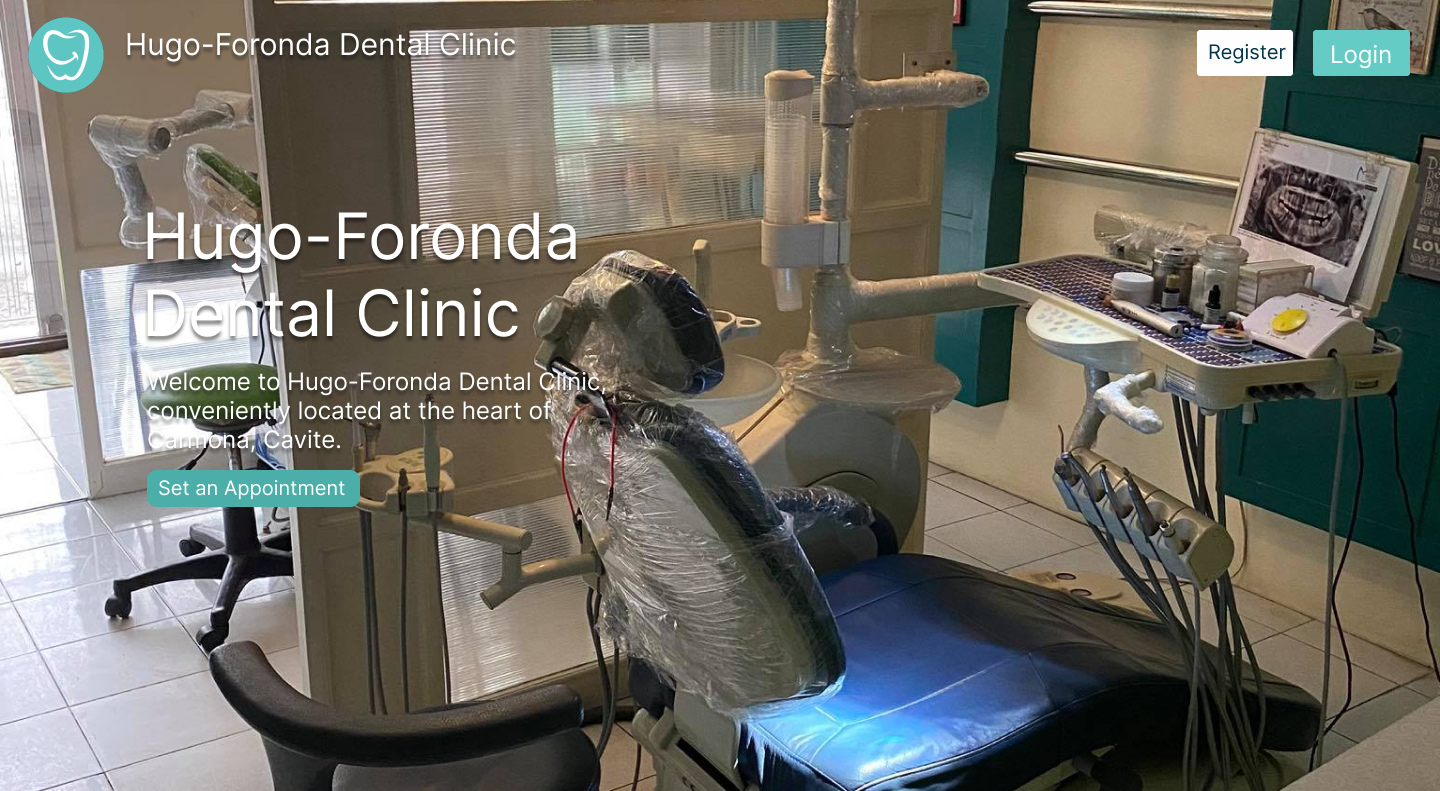
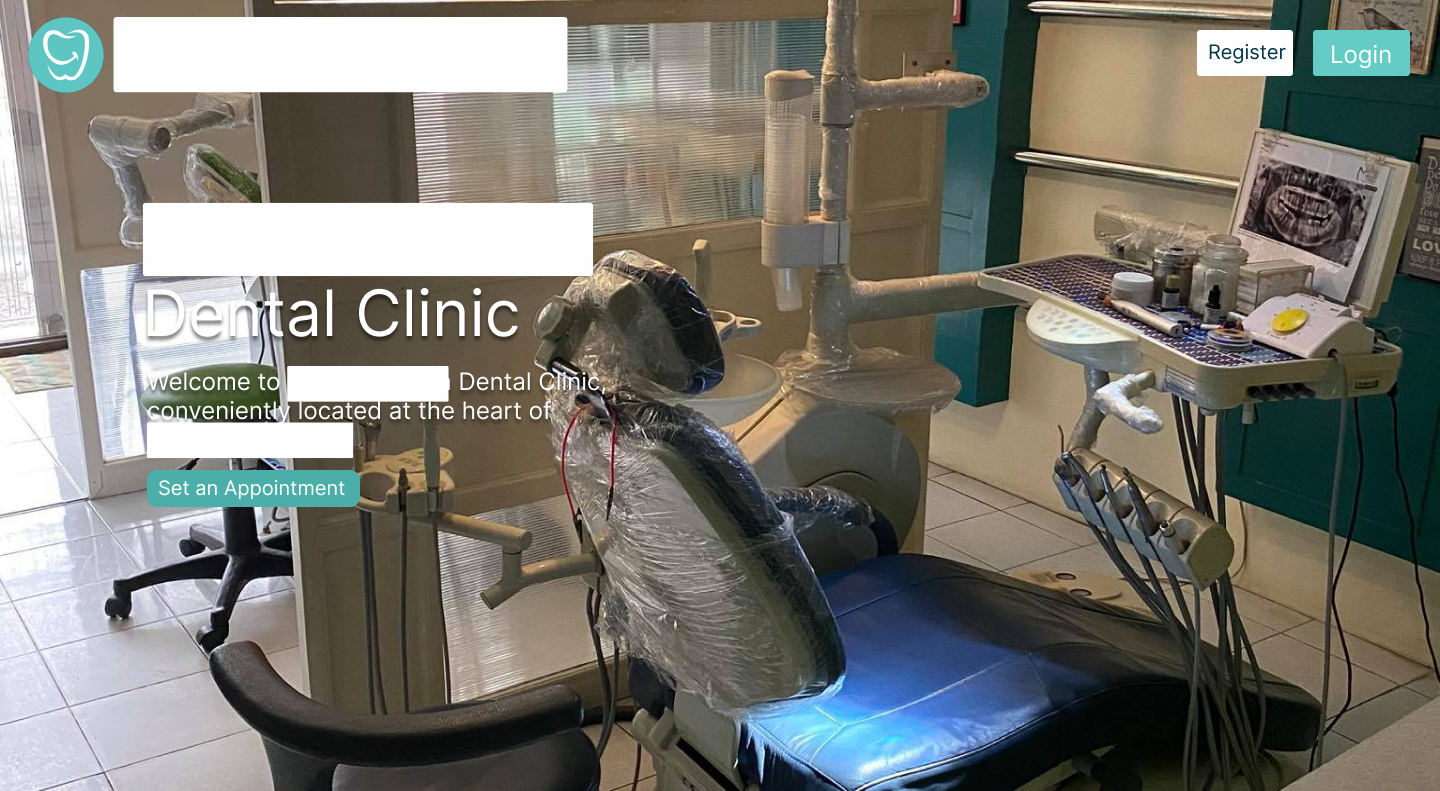
update lorem ipsums

Changed region(s): [[0.0625, 0.0, 0.4062, 0.1214], [0.0938, 0.2427, 0.4375, 0.3641], [0.0938, 0.4551, 0.3125, 0.5765]]

diff --git a/src/views/Landing.vue b/src/views/Landing.vue
@@ -8,7 +8,12 @@
             <h1 class="text-uppercase">Arabella</h1>
             <h2>Web Developer</h2>
           </div>
-          <p class="mt-5 mb-0">lorem ipsum dolor sit amet</p>
+          <p class="mt-5 mb-0">
+            Focused on progress, passionate about development,<br />
+            and ready to bring value to every project.
+          </p>
+          <!-- <p class="mt-5 mb-0">Empowering Ideas Through Code.</p>
+          <p class="mt-5 mb-0">Eager to Learn. Passionate to Build.</p> -->
           <div class="d-flex gap-5 mt-3">
             <icon :icon="['fab', 'github']" size="xl" />
             <icon :icon="['fab', 'linkedin']" size="xl" />
@@ -54,9 +59,16 @@
         </h3>
 
         <p class="section__description text-end my-5">
-          lorem ipsum dolor sit amet. lorem ipsum dolor sit amet. lorem ipsum
-          dolor sit amet. lorem ipsum dolor sit amet. lorem ipsum dolor sit
-          amet. lorem ipsum dolor sit amet. lorem ipsum dolor sit amet.
+          I am a web developer with a background in Computer Science and
+          real-world experience in both front-end and back-end development. I’ve
+          worked on transforming wireframes and mockups into fully functional
+          websites, applying responsive design principles and clean code
+          practices. <br />
+          <br />My experience includes full-stack development, database
+          management,and version control, gained through professional work,
+          internship, and self-study. I’m driven by a passion for continuous
+          learning and growth, always striving to improve my skills and follow
+          best practices in every project I take on.
         </p>
 
         <h4 class="text-center text-uppercase fs-2">technical skills</h4>
@@ -93,6 +105,12 @@
         <h3 class="section__title section__title--left text-uppercase">
           projects
         </h3>
+        <p class="section__description my-5">
+          Here are a few projects I’ve built to sharpen my skills and deliver
+          value. While I’ve had the opportunity to work on additional impactful
+          applications, some are not publicly available due to the private
+          nature of clients and in-house systems.
+        </p>
 
         <div class="mt-5">
           <div v-for="project in projects">
@@ -168,7 +186,7 @@ const projects = [
     image: "../assets/images/clinic.png",
     title: "Appointment Scheduling and Patient Record System",
     description:
-      "A web application developed for a dental clinic using the TALL stack (Tailwind CSS, Alpine.js, Laravel, and Livewire).",
+      "A capstone web application developed for a dental clinic using the TALL stack (Tailwind CSS, Alpine.js, Laravel, and Livewire). Built to manage appointment scheduling and patient records efficiently.",
     // codeLink: "https://github.com/ArabellaJordan/Dental-Clinic",
     // projectLink: "https://dental-clinic-main-lkgzmx.laravel.cloud/",
   },
